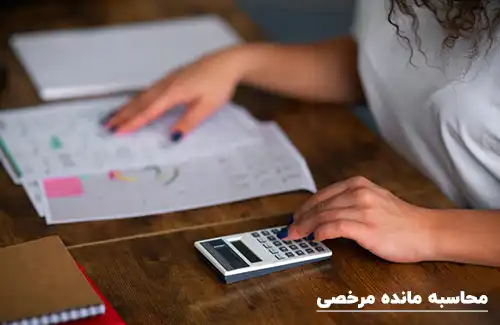
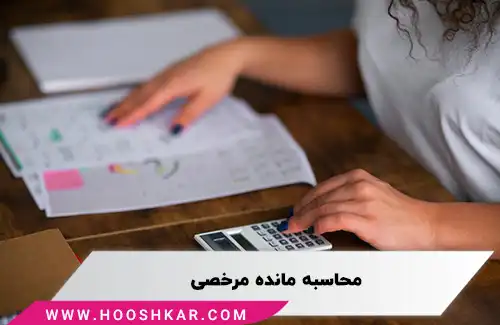
بروزرسانی محتوا + عکسها

diff --git a/Financial/WhatIsPayroll/SalaryDocument.md b/Financial/WhatIsPayroll/SalaryDocument.md
@@ -1,8 +1,8 @@
 ---
 title: سند حقوق و دستمزد چیست؟
-author: سمانه رشوند  
-description: مبلغی که کارمندان و کارگران از جانب کارفرما طبق قانون وزارت کار و توافقات طرفین در ازای کارکرد برای یک دوره معین دریافت می کنند.
-dateModified: 2024/04/07
+author: سمانه رشوند
+description: سند حقوق و دستمزد یک سند حسابداری است که نتایج محاسبه حقوق و دستمزد کارکنان به صورت ماهانه در آن ثبت می شود.
+dateModified: 2024/05/23
 datePublished: 2022/07/31
 uid: Financial/WhatIsPayroll/SalaryDocument
 ---
@@ -11,7 +11,7 @@ uid: Financial/WhatIsPayroll/SalaryDocument
 <details>
   <summary>آنچه در این مطلب خواهید خواند:</summary>
   <ul>
-    <li>سند حقوق و دستمزد</li>
+    <li>تعریف سند حقوق و دستمزد</li>
     <li>اهمیت ثبت سند حقوق و دستمزد</li>
     <li>فیش حقوقی چیست</li>
   </ul>
@@ -26,20 +26,20 @@ uid: Financial/WhatIsPayroll/SalaryDocument
 <blockquote style="background-color:#f5f5f5; padding:0.5rem">
 <p><strong>آشنایی با <a href="https://www.hooshkar.com/Software/Sayan/Module/Payroll" target="_blank">نرم افزار حقوق و دستمزد</a> سایان</strong></p></blockquote>
 
-## سند حقوق و دستمزد
+## تعریف سند حقوق و دستمزد
 
 
 سند حقوق و دستمزد یک سند حسابداری است که نتایج محاسبه حقوق و دستمزد کارکنان به صورت ماهانه در آن ثبت می شود.
 
 ![سند حقوق و دستمزد](./Images/SalaryDocument.webp)
 
- جهت ثبت این سند نیاز به سرفصل های زیر می باشد:
+جهت ثبت این سند نیاز به سرفصل های زیر میباشد:
 
 بستانکار | بدهکار
 ------------ | -------------
 مالیات حقوق | هزینه حقوق
-بیمه تامین اجتماعی |  حق مسکن
-بیمه تکمیلی |  حق بن
+بیمه تامین اجتماعی | حق مسکن
+بیمه تکمیلی | حق بن
 مالیات حقوق | هزینه حقوق
 جاری کارکنان به تفکیک پرسنل | حق بیمه 23 درصد کارفرما
 
@@ -53,7 +53,7 @@ uid: Financial/WhatIsPayroll/SalaryDocument
 ## فیش حقوقی چیست
 
 فیش حقوقی در واقع سندی است که جزئیات کاملی از میزان درآمد کارکنان در آن نوشته شده است. 
-تمام کسبوکارهای کوچک و بزرگ، از شرکتها گرفته تا کارخانهها موظفاند به کارکنان خود فیش حقوقی بدهند. 
+تمام کسبوکارهای کوچک و بزرگ، از شرکتها گرفته تا کارخانهها موظفاند به کارکنان خود فیش حقوقی را ارائه دهند. 
 
 در این فیشها، اطلاعات مهمی از جمله: نام شرکت و کارمند، شماره ملی و شماره حساب کارمند، تاریخ صدور و شماره بیمه ثبت میشود.
 

diff --git a/Financial/WhatIsPayroll/DefinitionOfPropertyTax.md b/Financial/WhatIsPayroll/DefinitionOfPropertyTax.md
@@ -2,7 +2,6 @@
 title: مالیات چیست، تفاوتها و مبانی آنها
 author: سمانه رشوند - فربد وزیرمختار
 description: این مقاله به بررسی جنبههای مختلف مالیات بر دارایی میپردازد، از تعریف آن به عنوان مالیاتی بر ثروت و داراییهای خالص افراد گرفته تا انواع و کاربردهای آن در کشورهای مختلف، از جمله ایران. همچنین به دلایل اعمال این نوع مالیات، مانند کاهش شکاف طبقاتی و ایجاد تعادل اجتماعی، اشاره شده است.
-
 dateModified: 2024/05/09
 datePublished: 2023/05/09
 uid: Financial/DefinitionOfPropertyTax

diff --git a/Financial/WhatIsPayroll/TheFormulaForCalculatingTheLeaveBalance.md b/Financial/WhatIsPayroll/TheFormulaForCalculatingTheLeaveBalance.md
@@ -3,7 +3,7 @@ title: فرمول محاسبه مانده مرخصی
 author: سمانه رشوند
 description: مبلغ مرخصی مانده بر اساس حقوق و مزایای دریافتی کارگر و با استفاده از فرمول ارائه شده در این مقاله محاسبه میشود. آگاهی از فرمول محاسبه مانده مرخصی و حقوق قانونی مرتبط با آن برای کارفرمایان و کارگران ضروری است.
 dateModified: 2024/05/23
-datePublished: 2022/07/01
+datePublished: 2024/05/08
 uid: Financial/WhatIsPayroll/TheFormulaForCalculatingTheLeaveBalance
 ---
 <blockquote style="background-color:#eeeefc; padding:0.5rem">
